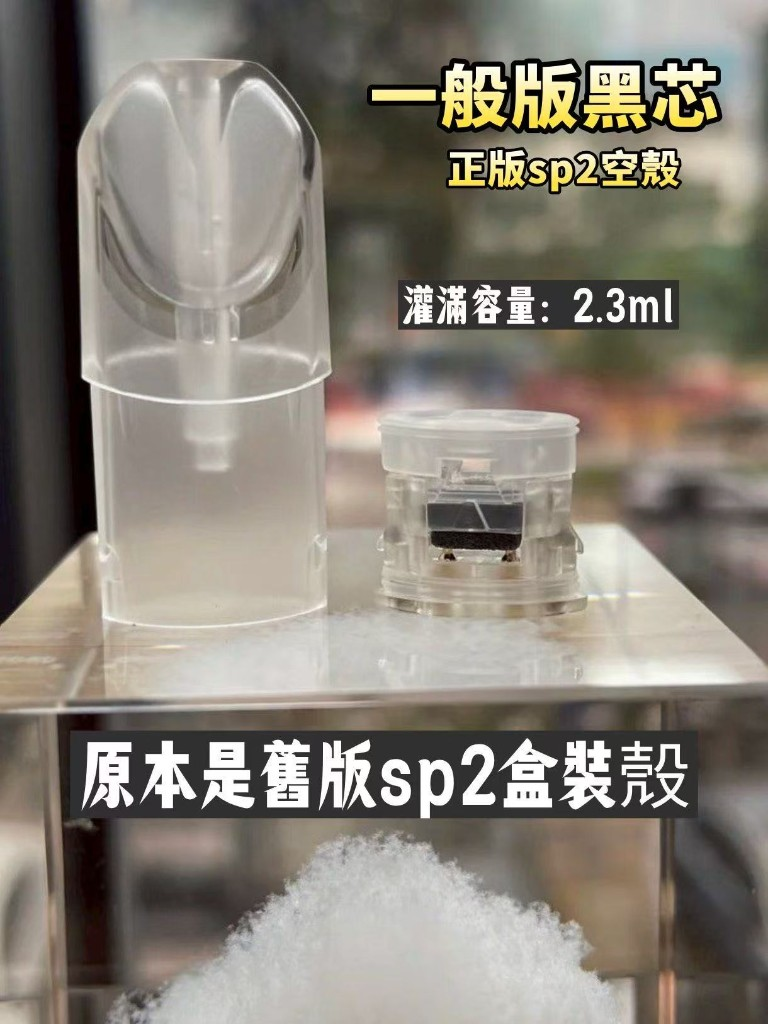
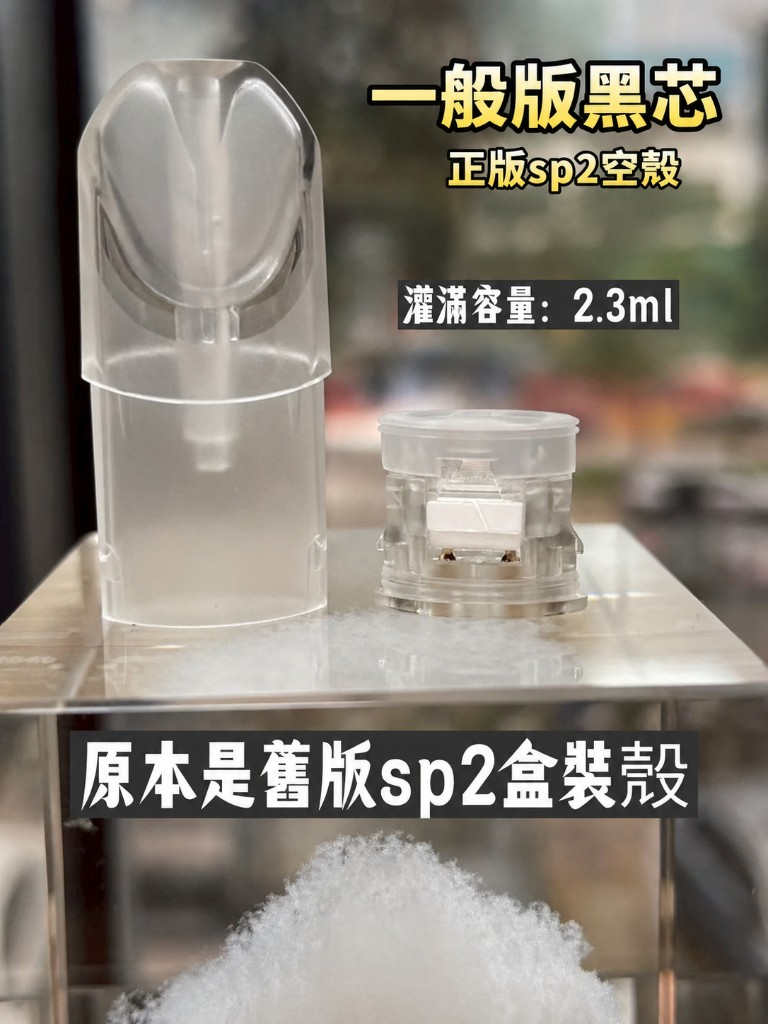
feat(home): reorder catalog pods→host→disposable, fix anchors, refresh empty-shell image

diff --git a/src/components/landing/PinkyImportedSection.tsx b/src/components/landing/PinkyImportedSection.tsx
@@ -226,6 +226,13 @@ const SECTION_CONFIG: Array<{
   description: string;
 }> = [
   {
+    category: "菸彈／通配系列",
+    eyebrow: "通配與菸彈",
+    titleMain: "日常補給。",
+    titleSub: "相容快選，口味輪替不設限。",
+    description: "通配與菸彈合併成一區，補貨、換口味、找相容型號一次完成。",
+  },
+  {
     category: "主機系列",
     eyebrow: "主機專區",
     titleMain: "握感即戰力。",
@@ -238,13 +245,6 @@ const SECTION_CONFIG: Array<{
     titleMain: "一口到位。",
     titleSub: "高口數續航，風味一路在線。",
     description: "一次性系列集中展示，從 6K 到 15K 規格連續排版，口味切換更直覺。",
-  },
-  {
-    category: "菸彈／通配系列",
-    eyebrow: "通配與菸彈",
-    titleMain: "日常補給。",
-    titleSub: "相容快選，口味輪替不設限。",
-    description: "通配與菸彈合併成一區，補貨、換口味、找相容型號一次完成。",
   },
 ];
 
@@ -319,7 +319,7 @@ function catalogSectionDomId(
 const PinkyImportedSection = () => {
   return (
     <section
-      id="disposables"
+      id="home-catalog"
       className="relative scroll-mt-24 border-y hairline py-12 sm:scroll-mt-28 sm:py-24 md:py-36 lg:py-44"
     >
       <div className="container max-sm:px-3">

diff --git a/src/components/checkout/CheckoutChrome.tsx b/src/components/checkout/CheckoutChrome.tsx
@@ -41,17 +41,17 @@ export function CheckoutFooter() {
             <h3 className="text-xs font-semibold uppercase tracking-widest text-white">產品分類</h3>
             <ul className="mt-4 space-y-2 text-sm text-neutral-400">
               <li>
-                <a href="/#disposables" className="hover:text-white">
+                <a href="/#home-catalog-host" className="hover:text-white">
                   SP2S 主機
                 </a>
               </li>
               <li>
-                <a href="/#pods" className="hover:text-white">
+                <a href="/#home-catalog-pods" className="hover:text-white">
                   SP2S 煙彈
                 </a>
               </li>
               <li>
-                <a href="/#accessories" className="hover:text-white">
+                <a href="/#home-catalog-pods" className="hover:text-white">
                   LANA 煙彈
                 </a>
               </li>

diff --git a/src/components/landing/Navbar.tsx b/src/components/landing/Navbar.tsx
@@ -8,9 +8,9 @@ import SiteSearchSheet from "@/components/SiteSearchSheet";
 /** 首頁錨點：點選平滑捲動（自子頁回首頁後再捲） */
 const HOME_NAV_ITEMS = [
   { id: "hero", label: "精選首屏", hint: "主視覺" },
+  { id: "home-catalog-pods", label: "菸彈", hint: "菸彈／通配" },
   { id: "home-catalog-host", label: "主機", hint: "主機專區・目錄" },
   { id: "home-catalog-disposable", label: "拋棄式", hint: "一次性／大口數" },
-  { id: "home-catalog-pods", label: "菸彈", hint: "菸彈／通配" },
   { id: "taiwan-vape-store", label: "專賣店", hint: "配送與正品" },
   { id: "manifesto", label: "品牌日誌", hint: "資訊與指南" },
   { id: "contact", label: "聯絡我們", hint: "頁尾與社群" },
@@ -112,7 +112,7 @@ const Navbar = () => {
               </button>
               <button
                 type="button"
-                aria-label="主機・拋棄式・菸彈選單"
+                aria-label="菸彈・主機・拋棄式選單"
                 aria-expanded={open}
                 className="md:hidden grid h-11 min-h-[44px] min-w-[44px] w-11 place-items-center rounded-full hairline border"
                 onClick={() => {
@@ -129,7 +129,7 @@ const Navbar = () => {
         {open && (
           <nav
             className="md:hidden glass-strong border-t hairline mt-2 sm:mt-3"
-            aria-label="首頁區塊（主機・拋棄式・菸彈）"
+            aria-label="首頁區塊（菸彈・主機・拋棄式）"
           >
             <div className="container grid grid-cols-1 gap-2 py-4 sm:grid-cols-2 sm:gap-3 sm:py-5">
               {HOME_NAV_ITEMS.map((s) => (

diff --git a/src/components/landing/Hero.tsx b/src/components/landing/Hero.tsx
@@ -4,7 +4,7 @@ import { BrandSp2s } from "@/components/BrandSp2s";
 import sp2sGen2PodsFlavorCatalog from "@/assets/sp2s-gen2-pods-flavor-catalog.png";
 
 const GEN1_PODS_ROUTE = "/product/sp2s-gen1-pods";
-const CATALOG_ANCHOR = "/#disposables";
+const CATALOG_ANCHOR = "/#home-catalog";
 
 const Hero = () => {
   return (

diff --git a/src/pages/Sp2sUniversalPodsDetail.tsx b/src/pages/Sp2sUniversalPodsDetail.tsx
@@ -137,7 +137,7 @@ const Sp2sUniversalPodsDetail = () => {
                 首頁
               </Link>
               <span>/</span>
-              <Link to="/#disposables" className="hover:text-gray-700">
+              <Link to="/#home-catalog-pods" className="hover:text-gray-700">
                 通配與菸彈
               </Link>
             </div>